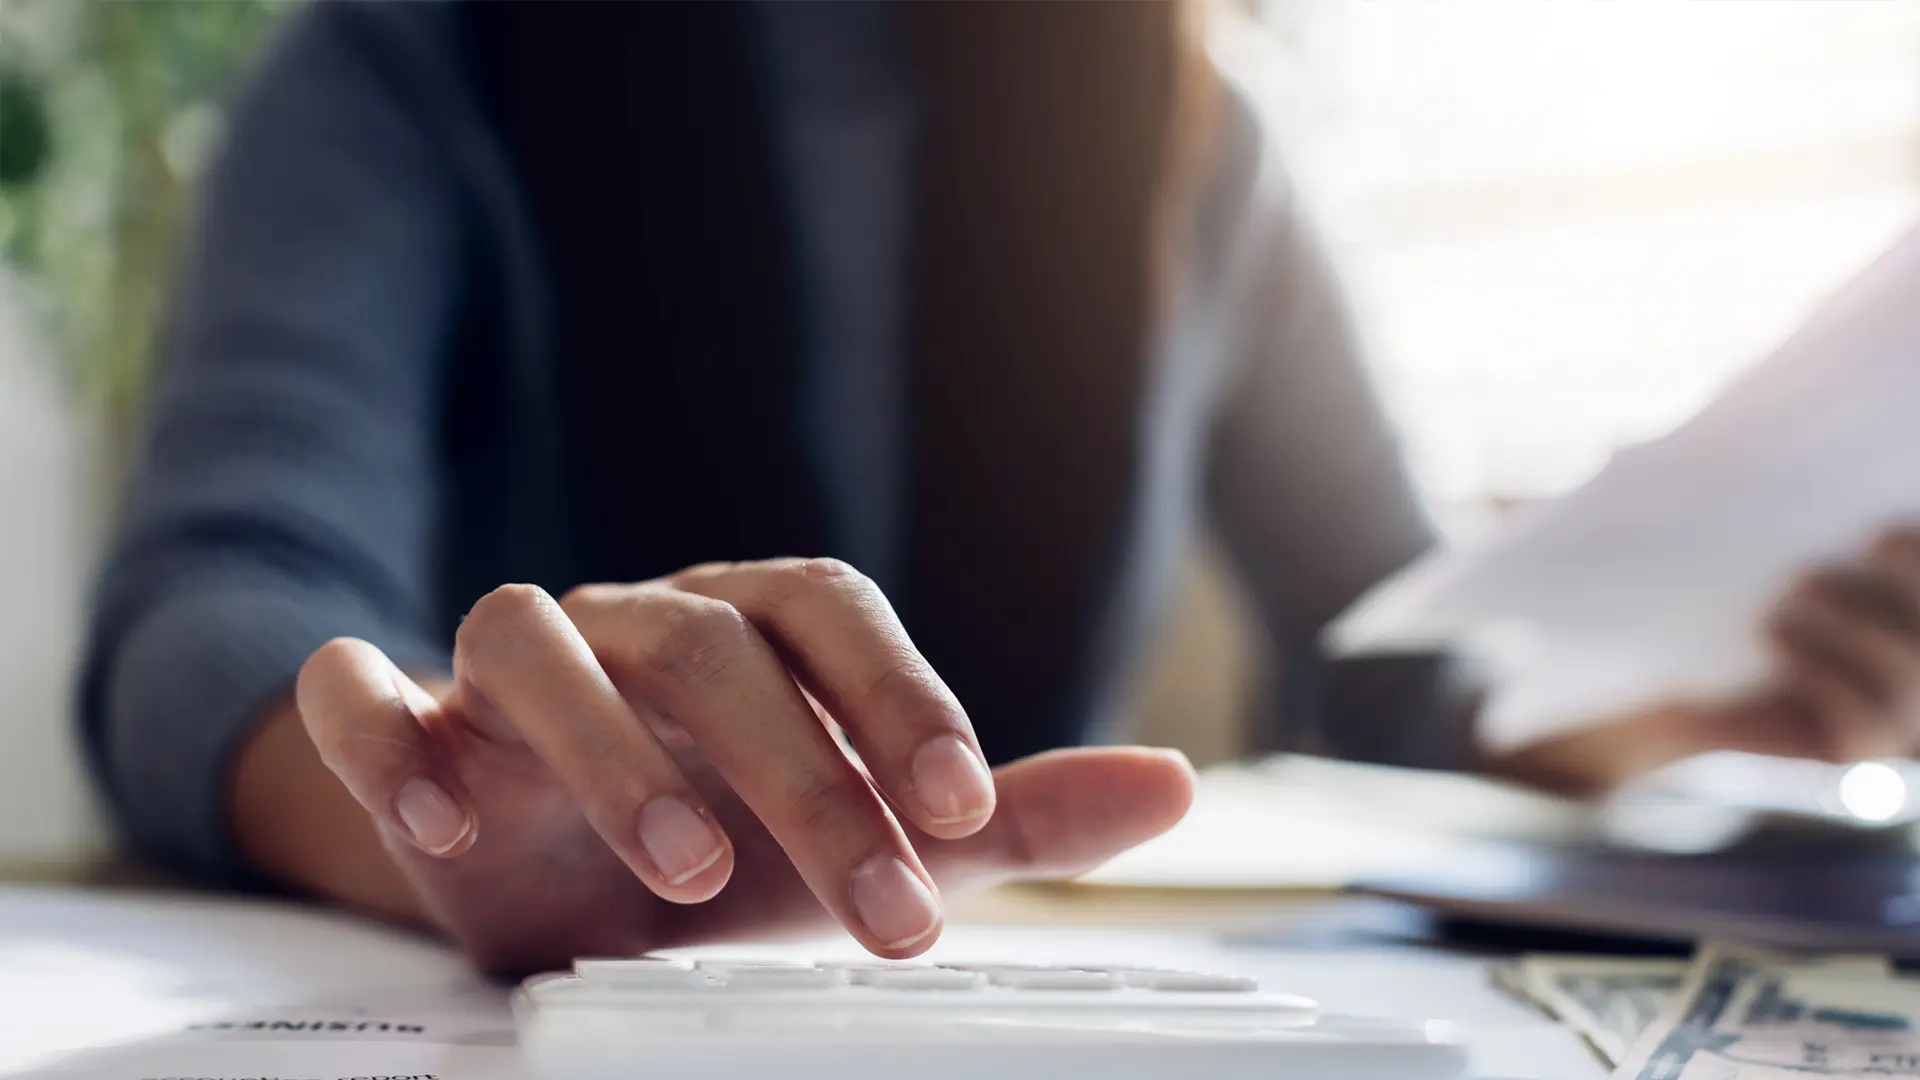
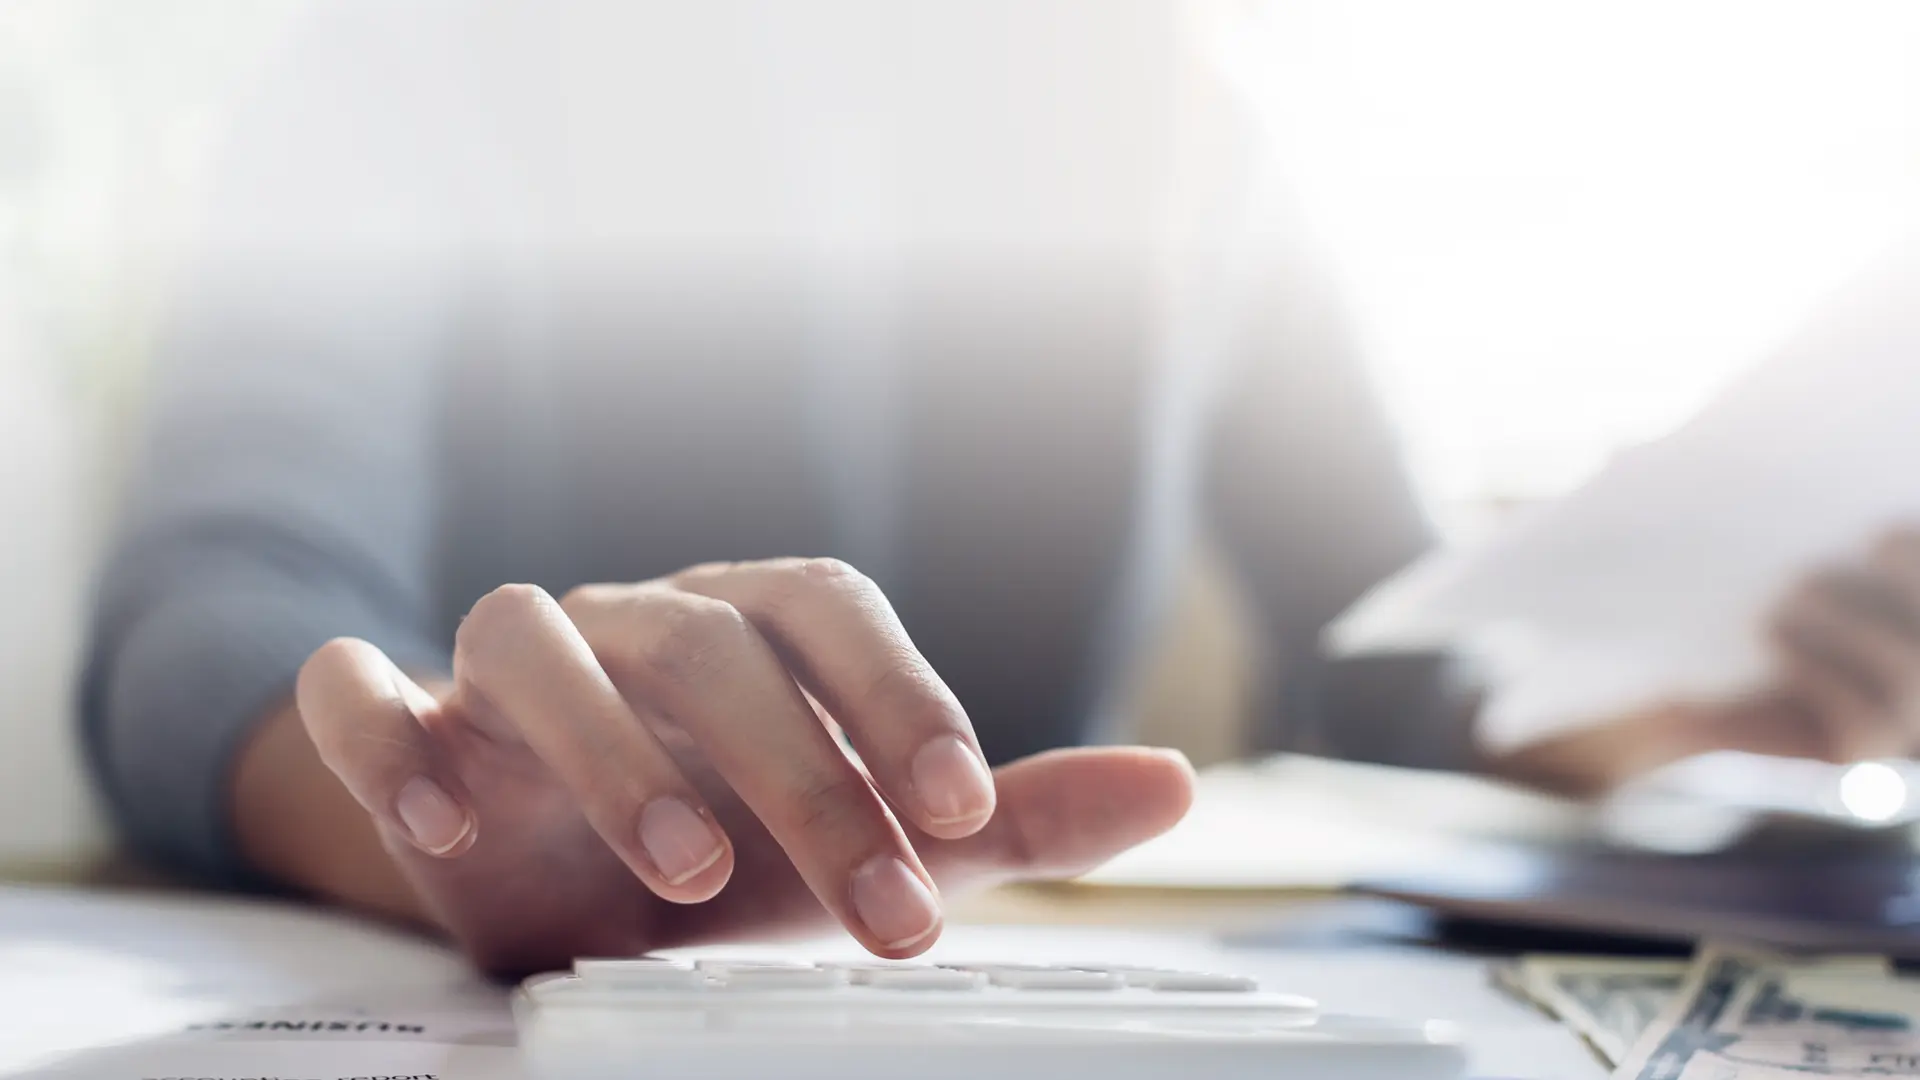
refactor: bg images of contact and services sections

diff --git a/src/components/sections/contact/contact.scss b/src/components/sections/contact/contact.scss
@@ -7,16 +7,15 @@
 
   box-sizing: border-box;
 
-  /*
-  background: url("../../../assets/images/contact/bg-contact.webp") center/cover fixed;
+  background: url("../../../assets/images/contact/bg-contact.webp") center/cover
+    fixed;
 
-  */
-  background: linear-gradient(
-      0deg,
-      rgb(245, 245, 245, 0.4),
-      rgb(245, 245, 245, 0.6)
-    ),
-    url("../../../assets/images/contact/bg-contact.webp") center/cover fixed;
+  background-position: center center;
+  background-size: cover;
+  background-repeat: no-repeat;
+  background-attachment: fixed;
+
+  background-blend-mode: lighten;
 
   display: flex;
   justify-content: center;

diff --git a/src/components/sections/services/services.scss b/src/components/sections/services/services.scss
@@ -6,12 +6,15 @@
   padding: 10dvh 0;
   box-sizing: border-box;
 
-  background: linear-gradient(
-      0deg,
-      rgb(245, 245, 245, 0.4),
-      rgb(245, 245, 245, 0.6)
-    ),
-    url("../../../assets/images/services/bg-services.webp") center/cover fixed;
+  background: url("../../../assets/images/services/bg-services.webp")
+    center/cover fixed;
+
+  background-position: center center;
+  background-size: cover;
+  background-repeat: no-repeat;
+  background-attachment: fixed;
+
+  background-blend-mode: lighten;
 
   display: flex;
   justify-content: center;
